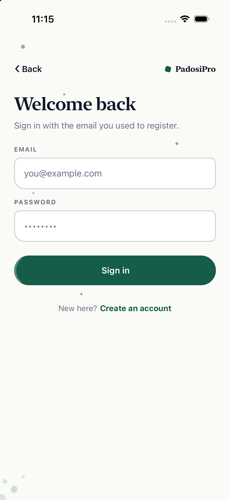
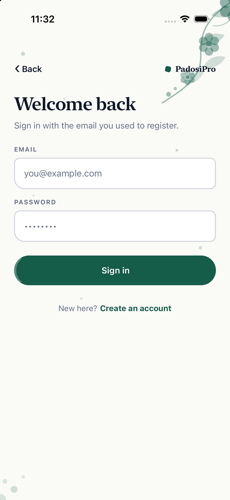
fix: fixed rnsvg errors and added screenshots of the app in readme

diff --git a/app/src/components/ui/flower-corner.tsx b/app/src/components/ui/flower-corner.tsx
@@ -1,4 +1,3 @@
-import Svg, { Circle, G, Path } from 'react-native-svg';
 import { StyleSheet, View } from 'react-native';
 
 import { useTheme } from '@/hooks/use-theme';
@@ -7,85 +6,161 @@ type FlowerCornerProps = {
   size?: number;
 };
 
+function Bloom({
+  size,
+  color,
+  style,
+}: {
+  size: number;
+  color: string;
+  style?: object;
+}) {
+  const petal = size * 0.38;
+  const center = size * 0.28;
+  const offsets = [
+    { top: 0, left: size / 2 - petal / 2 },
+    { top: size * 0.18, left: size * 0.62 },
+    { top: size * 0.52, left: size * 0.62 },
+    { top: size * 0.7, left: size / 2 - petal / 2 },
+    { top: size * 0.52, left: size * 0.02 },
+    { top: size * 0.18, left: size * 0.02 },
+  ];
+
+  return (
+    <View style={[{ width: size, height: size }, style]}>
+      {offsets.map((pos, i) => (
+        <View
+          key={i}
+          style={{
+            position: 'absolute',
+            top: pos.top,
+            left: pos.left,
+            width: petal,
+            height: petal,
+            borderRadius: petal,
+            backgroundColor: color,
+            opacity: 0.42,
+          }}
+        />
+      ))}
+      <View
+        style={{
+          position: 'absolute',
+          top: size / 2 - center / 2,
+          left: size / 2 - center / 2,
+          width: center,
+          height: center,
+          borderRadius: center,
+          backgroundColor: color,
+          opacity: 0.7,
+        }}
+      />
+    </View>
+  );
+}
+
+function Leaf({
+  width,
+  height,
+  color,
+  style,
+}: {
+  width: number;
+  height: number;
+  color: string;
+  style?: object;
+}) {
+  return (
+    <View
+      style={[
+        {
+          width,
+          height,
+          borderRadius: height,
+          backgroundColor: color,
+          opacity: 0.22,
+          transform: [{ rotate: '-28deg' }],
+        },
+        style,
+      ]}
+    />
+  );
+}
+
 export function FlowerCorner({ size = 280 }: FlowerCornerProps) {
   const theme = useTheme();
+  const scale = size / 280;
 
   return (
     <View pointerEvents="none" style={[styles.base, { width: size, height: size }]}>
-      <Svg width={size} height={size} viewBox="0 0 240 240">
-        <G>
-          <Path
-            d="M235 5 C190 30 160 55 150 90 C140 128 155 150 130 180 C112 203 95 212 65 232"
-            stroke={theme.brand}
-            strokeOpacity={0.4}
-            strokeWidth={3}
-            fill="none"
-            strokeLinecap="round"
-          />
-          <Path
-            d="M172 70 C190 72 205 64 214 48"
-            stroke={theme.brand}
-            strokeOpacity={0.3}
-            strokeWidth={2}
-            fill="none"
-            strokeLinecap="round"
-          />
-          <Path
-            d="M205 20 C222 12 236 18 242 32 C226 38 210 34 205 20 Z"
-            fill={theme.brand}
-            fillOpacity={0.26}
-          />
-          <Path
-            d="M168 48 C182 32 204 28 220 38 C206 54 182 56 168 48 Z"
-            fill={theme.brand}
-            fillOpacity={0.22}
-          />
-          <Path
-            d="M145 105 C156 88 178 82 196 90 C184 108 160 116 145 105 Z"
-            fill={theme.brand}
-            fillOpacity={0.2}
-          />
-          <Path
-            d="M152 155 C160 138 180 130 198 136 C188 154 166 164 152 155 Z"
-            fill={theme.brand}
-            fillOpacity={0.18}
-          />
-          <Path
-            d="M108 190 C114 172 134 163 152 168 C144 186 122 197 108 190 Z"
-            fill={theme.brand}
-            fillOpacity={0.16}
-          />
-          <G transform="translate(214 30)">
-            <Circle r="12" cx="0" cy="-19" fill={theme.brand} fillOpacity={0.45} />
-            <Circle r="12" cx="16" cy="-9" fill={theme.brand} fillOpacity={0.45} />
-            <Circle r="12" cx="16" cy="10" fill={theme.brand} fillOpacity={0.45} />
-            <Circle r="12" cx="0" cy="20" fill={theme.brand} fillOpacity={0.45} />
-            <Circle r="12" cx="-16" cy="10" fill={theme.brand} fillOpacity={0.45} />
-            <Circle r="12" cx="-16" cy="-9" fill={theme.brand} fillOpacity={0.45} />
-            <Circle r="8" cx="0" cy="0" fill={theme.brand} fillOpacity={0.7} />
-          </G>
-          <G transform="translate(163 108)">
-            <Circle r="9" cx="0" cy="-14" fill={theme.brand} fillOpacity={0.4} />
-            <Circle r="9" cx="12" cy="-6" fill={theme.brand} fillOpacity={0.4} />
-            <Circle r="9" cx="12" cy="8" fill={theme.brand} fillOpacity={0.4} />
-            <Circle r="9" cx="0" cy="16" fill={theme.brand} fillOpacity={0.4} />
-            <Circle r="9" cx="-12" cy="8" fill={theme.brand} fillOpacity={0.4} />
-            <Circle r="9" cx="-12" cy="-6" fill={theme.brand} fillOpacity={0.4} />
-            <Circle r="6" cx="0" cy="0" fill={theme.brand} fillOpacity={0.65} />
-          </G>
-          <G transform="translate(118 178)">
-            <Circle r="6" cx="0" cy="-10" fill={theme.brand} fillOpacity={0.35} />
-            <Circle r="6" cx="9" cy="-4" fill={theme.brand} fillOpacity={0.35} />
-            <Circle r="6" cx="9" cy="6" fill={theme.brand} fillOpacity={0.35} />
-            <Circle r="6" cx="0" cy="11" fill={theme.brand} fillOpacity={0.35} />
-            <Circle r="6" cx="-9" cy="6" fill={theme.brand} fillOpacity={0.35} />
-            <Circle r="6" cx="-9" cy="-4" fill={theme.brand} fillOpacity={0.35} />
-            <Circle r="4" cx="0" cy="0" fill={theme.brand} fillOpacity={0.6} />
-          </G>
-          <Circle cx="78" cy="214" r="5" fill={theme.brand} fillOpacity={0.4} />
-          <Circle cx="92" cy="202" r="3.5" fill={theme.brand} fillOpacity={0.32} />
-        </G>
-      </Svg>
+      <View
+        style={[
+          styles.vine,
+          {
+            backgroundColor: theme.brand,
+            height: size * 0.82,
+            right: size * 0.28,
+            top: size * 0.04,
+          },
+        ]}
+      />
+      <Leaf
+        width={48 * scale}
+        height={18 * scale}
+        color={theme.brand}
+        style={{ position: 'absolute', top: 28 * scale, right: 70 * scale }}
+      />
+      <Leaf
+        width={42 * scale}
+        height={16 * scale}
+        color={theme.brand}
+        style={{ position: 'absolute', top: 90 * scale, right: 95 * scale }}
+      />
+      <Leaf
+        width={38 * scale}
+        height={14 * scale}
+        color={theme.brand}
+        style={{ position: 'absolute', top: 150 * scale, right: 120 * scale }}
+      />
+      <Bloom
+        size={54 * scale}
+        color={theme.brand}
+        style={{ position: 'absolute', top: 8 * scale, right: 8 * scale }}
+      />
+      <Bloom
+        size={40 * scale}
+        color={theme.brand}
+        style={{ position: 'absolute', top: 88 * scale, right: 58 * scale }}
+      />
+      <Bloom
+        size={28 * scale}
+        color={theme.brand}
+        style={{ position: 'absolute', top: 160 * scale, right: 110 * scale }}
+      />
+      <View
+        style={{
+          position: 'absolute',
+          top: 210 * scale,
+          right: 150 * scale,
+          width: 10 * scale,
+          height: 10 * scale,
+          borderRadius: 10 * scale,
+          backgroundColor: theme.brand,
+          opacity: 0.4,
+        }}
+      />
+      <View
+        style={{
+          position: 'absolute',
+          top: 198 * scale,
+          right: 132 * scale,
+          width: 7 * scale,
+          height: 7 * scale,
+          borderRadius: 7 * scale,
+          backgroundColor: theme.brand,
+          opacity: 0.3,
+        }}
+      />
     </View>
   );
 }
@@ -95,5 +170,12 @@ const styles = StyleSheet.create({
     position: 'absolute',
     top: -14,
     right: -28,
+  },
+  vine: {
+    position: 'absolute',
+    width: 3,
+    borderRadius: 3,
+    opacity: 0.35,
+    transform: [{ rotate: '18deg' }],
   },
 });

diff --git a/app/src/components/ui/corner-accent.tsx b/app/src/components/ui/corner-accent.tsx
@@ -1,21 +1,34 @@
-import { Circle, G, Svg } from 'react-native-svg';
 import { StyleSheet, View } from 'react-native';
 
 import { useTheme } from '@/hooks/use-theme';
+
+const DOTS = [
+  { bottom: 8, left: 8, size: 20, opacity: 0.14 },
+  { bottom: 28, left: 32, size: 12, opacity: 0.18 },
+  { bottom: 44, left: 16, size: 8, opacity: 0.14 },
+  { bottom: 52, left: 48, size: 6, opacity: 0.12 },
+];
 
 export function CornerAccent() {
   const theme = useTheme();
 
   return (
     <View pointerEvents="none" style={styles.base}>
-      <Svg width={90} height={90} viewBox="0 0 90 90">
-        <G>
-          <Circle cx="10" cy="80" r="10" fill={theme.brand} fillOpacity={0.14} />
-          <Circle cx="34" cy="62" r="6" fill={theme.brand} fillOpacity={0.18} />
-          <Circle cx="18" cy="48" r="4" fill={theme.brand} fillOpacity={0.14} />
-          <Circle cx="50" cy="40" r="3" fill={theme.brand} fillOpacity={0.12} />
-        </G>
-      </Svg>
+      {DOTS.map((dot, i) => (
+        <View
+          key={i}
+          style={{
+            position: 'absolute',
+            bottom: dot.bottom,
+            left: dot.left,
+            width: dot.size,
+            height: dot.size,
+            borderRadius: dot.size,
+            backgroundColor: theme.brand,
+            opacity: dot.opacity,
+          }}
+        />
+      ))}
     </View>
   );
 }
@@ -25,5 +38,7 @@ const styles = StyleSheet.create({
     position: 'absolute',
     bottom: -10,
     left: -10,
+    width: 90,
+    height: 90,
   },
 });
